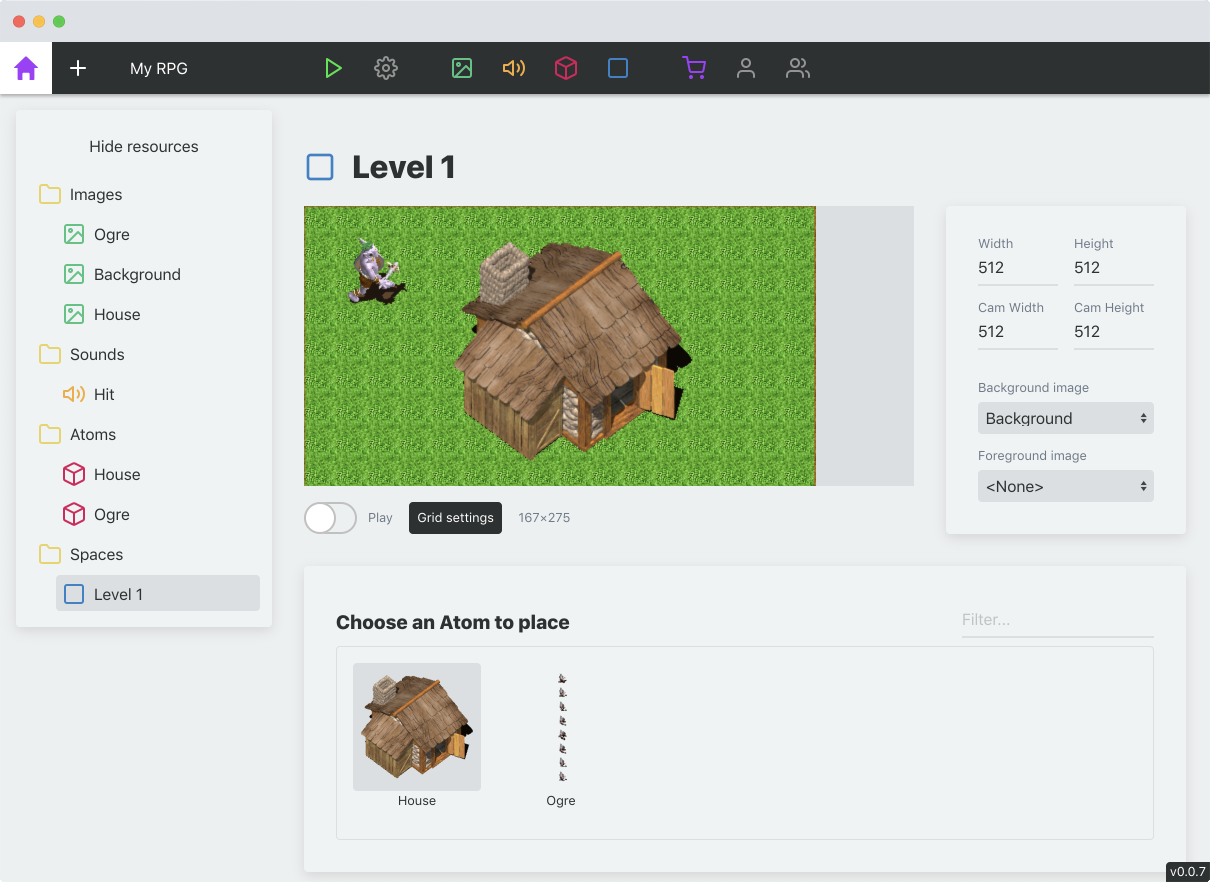
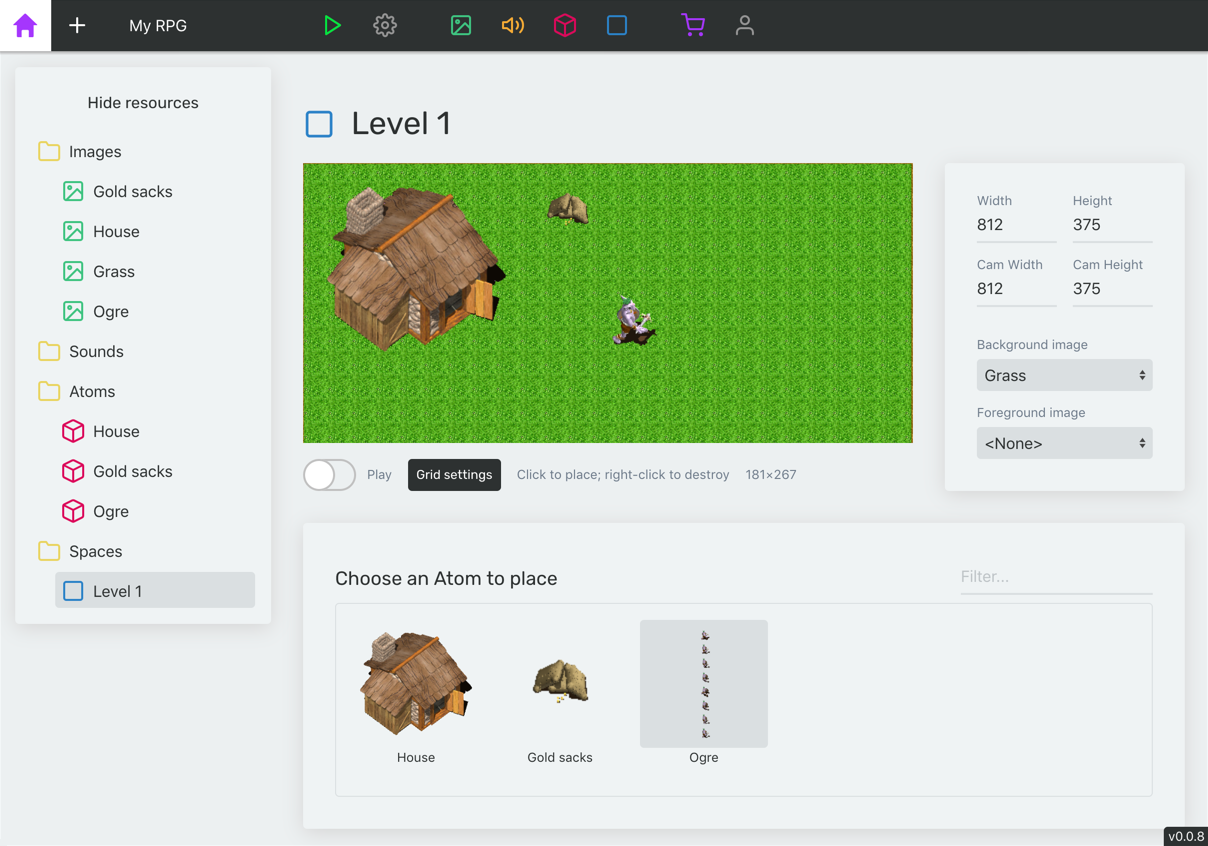
you can now hit enter in the grid modal. swap screenshot, more work on focus

diff --git a/site/src/src/components/Header.js b/site/src/src/components/Header.js
@@ -35,17 +35,23 @@ const StyledHeader = styled.header`
       display: block;
       position: absolute;
       top: 1.75rem;
-      left: 2rem;
+      right: 2rem;
       width: 2rem;
       height: 2rem;
       background-color: transparent;
       border: 0;
       // background-color: pink;
+      transition: background-color 0.2s ease-in-out;
       img {
         display: block;
         width: 100%;
         height: 100%;
       }
+    }
+    .menu:focus {
+      background-color: rgba(209, 104, 255, 0.2);
+      outline: 0;
+      border-radius: 4px;
     }
     nav {
       overflow: hidden;
@@ -69,11 +75,12 @@ const StyledHeader = styled.header`
             border: 2px solid transparent;
             border-radius: 4px;
             outline: 0;
-            transition: background-color 0.2s ease-in-out;
+            transition: color 0.2s ease-in-out;
             font-family: "Rubik", -apple-system, BlinkMacSystemFont, "Segoe UI", sans-serif;
           }
           a:focus {
-            background-color: rgba(209, 104, 255, 0.2);
+            background-color: transparent;
+            color: rgb(128, 128, 128) !important;
           }
           a.current {
             color: #D168FF;
@@ -87,6 +94,7 @@ const StyledHeader = styled.header`
             transition: border-color 0.2s ease-in-out;
           }
           a:focus {
+            color: white !important;
             border: 2px solid rgb(128, 128, 128);
           }
         }

diff --git a/app-oscar/src/src/modals/Grid.js b/app-oscar/src/src/modals/Grid.js
@@ -51,8 +51,8 @@ class GridModal extends PureComponent {
         <Modal onClose={this.props.onBad}>
           <Switch checked={this.state.on} onChange={(v) => this.onChangeProp('on', v)}>Grid</Switch>
           <div className='grid-properties'>
-            <Input label='Width' value={this.state.width} disabled={!this.state.on} type='number' min='4' max='256' onChange={(v) => this.onChangeProp('width', parseInt(v, 10))} />
-            <Input label='Height' value={this.state.height} disabled={!this.state.on} type='number' min='4' max='256' onChange={(v) => this.onChangeProp('height', parseInt(v, 10))} />
+            <Input label='Width' value={this.state.width} disabled={!this.state.on} type='number' min='4' max='256' onChange={(v) => this.onChangeProp('width', parseInt(v, 10))} onDone={this.handleOnGood} />
+            <Input label='Height' value={this.state.height} disabled={!this.state.on} type='number' min='4' max='256' onChange={(v) => this.onChangeProp('height', parseInt(v, 10))} onDone={this.handleOnGood} />
           </div>
           <Button onClick={this.handleOnGood}>Done</Button>
         </Modal>

diff --git a/app-oscar/src/src/components/Input/Input.js b/app-oscar/src/src/components/Input/Input.js
@@ -89,8 +89,7 @@ class Input extends PureComponent {
       this.props.onChange(event.target.value) // which is useful?
     }
     this.handleOnDone = (event) => {
-      if (this.props.onDone === null) return
-      if (event.which === 13) {
+      if (typeof this.props.onDone === 'function' && event.which === 13) {
         event.preventDefault()
         this.props.onDone(this.props.value)
       }

diff --git a/app-oscar/src/src/resourceTypes.js b/app-oscar/src/src/resourceTypes.js
@@ -307,8 +307,8 @@ const fixedResourceCollectionsByType = {
         {
           id: 'reiners-tilesets-gold-sacks',
           name: 'Reiner\'s Tilesets > Gold sacks',
-          width: 32,
-          height: 32
+          width: 64,
+          height: 64
         },
         {
           id: 'reiners-tilesets-grass',
